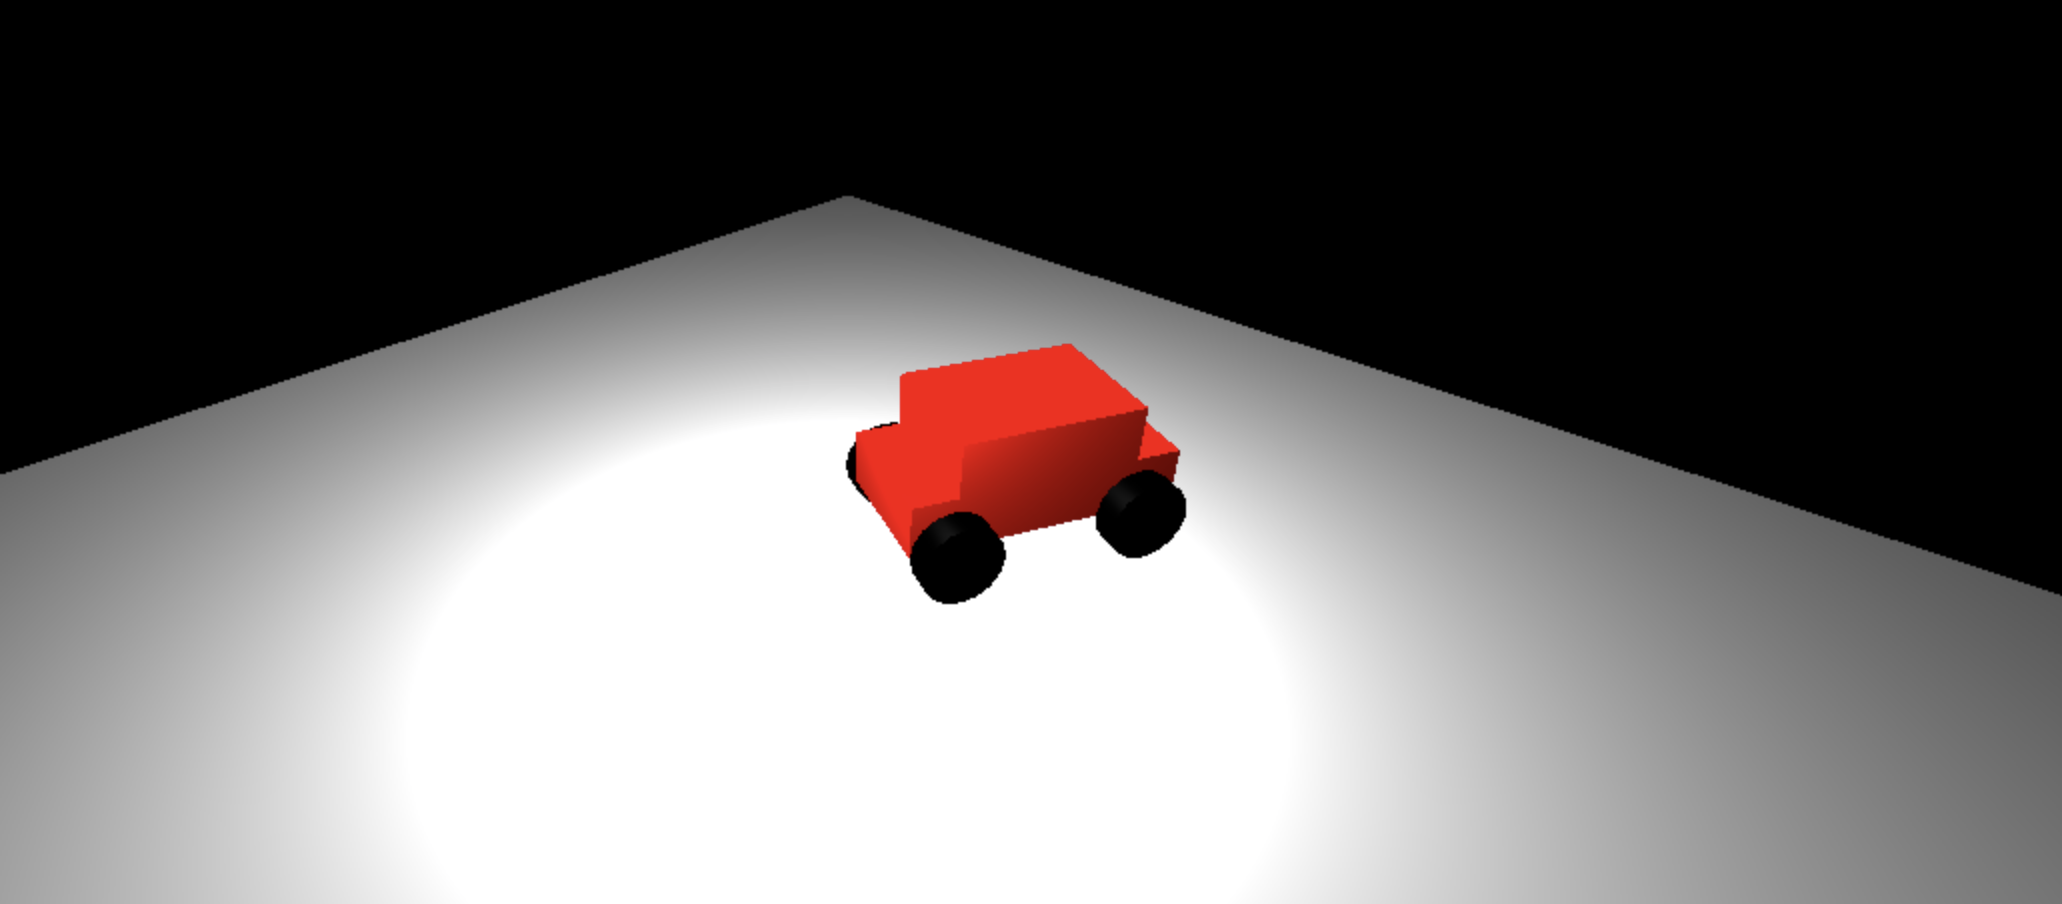
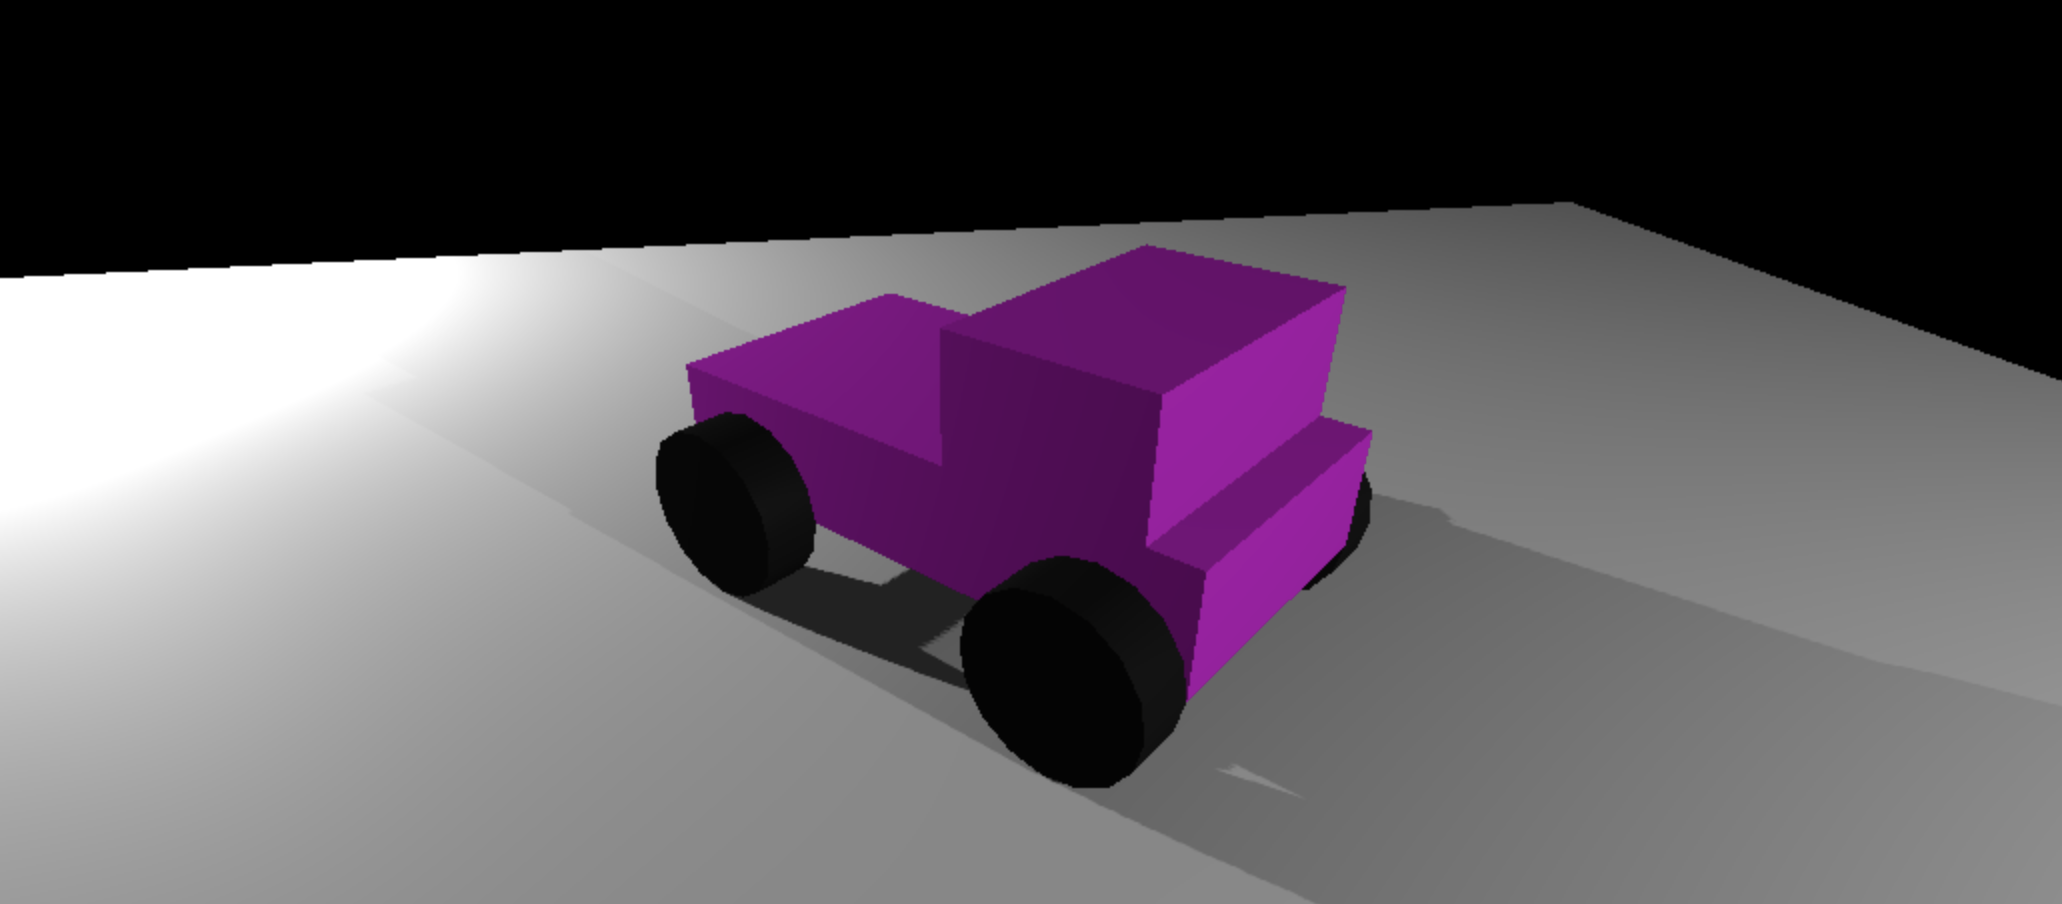
minimal changes

diff --git a/js/main.js b/js/main.js
@@ -40,18 +40,18 @@ const LIGHTS_DATA = [
         color: 0xffffff,
         intensity: 15,
         distance: 100,
-        position: [-2, 0.75, -2],
+        position: [-2.5, 0.75, -2.5],
     },
     {
         color: 0xffffff,
         intensity: 15,
         distance: 100,
-        position: [2, 0.75, 2],
+        position: [2.5, 0.75, 2.5],
     }
 ];
 
 const SHADOWS_DATA = {
-    mapSize: 512,
+    mapSize: 2048,
     near: 0.5,
     far: 500
 };
@@ -95,12 +95,13 @@ function drawCar(scene) {
     const topGeometry = new THREE.BoxGeometry(CAR_BODY_LENGTH * (1 / 3), CAR_BODY_HEIGHT, CAR_BODY_WIDTH);
     const top = new THREE.Mesh(topGeometry, bodyMaterial);
     top.translateY(CAR_BODY_HEIGHT);
+    top.translateX(- CAR_BODY_LENGTH * (1/4));
     top.castShadow = true;
     top.receiveShadow = false;
     car.add(top);
 
     // Car Wheels
-    const wheelGeometry = new THREE.CylinderGeometry(CAR_WHEEL_RADIUS, CAR_WHEEL_RADIUS, CAR_WHEEL_THICKNESS, 6);
+    const wheelGeometry = new THREE.CylinderGeometry(CAR_WHEEL_RADIUS, CAR_WHEEL_RADIUS, CAR_WHEEL_THICKNESS, 16);
     wheels = [];
 
     for (let i = 0; i < 4; i++) {
@@ -263,6 +264,11 @@ function animate() {
     } else
         resetWheelRotation();
 
+    // Color Cycle Car
+    let dt = new Date();
+    let secs = dt.getSeconds() + (60 * dt.getMinutes()) + (60 * 60 * dt.getHours());
+    car.children[0].material.color.setHSL((secs / 86400), 100/100, 50/100);
+    
     // Update Orbit Controls
     controls.update();
 

diff --git a/css/style.css b/css/style.css
@@ -1,3 +1,14 @@
 body {
     margin: 0px;
 }
+
+.repo {
+    text-shadow: 0px 0px 5px black, 0px 0px 5px black;
+    position: absolute;
+    color: white;
+    font-weight: normal;
+    text-decoration: none;
+    bottom: 10px;
+    right: 10px;
+    font-family: monospace;
+}

diff --git a/index.html b/index.html
@@ -6,6 +6,7 @@
 		<link rel="stylesheet" href="css/style.css" />
 	</head>
 	<body>
+		<a class="repo" href="https://github.com/rbtavares/threejs-car" target="_blank">rbtavares/threejs-car</a>
 		<script type="module" src="js/main.js"></script>
 	</body>
 </html>
